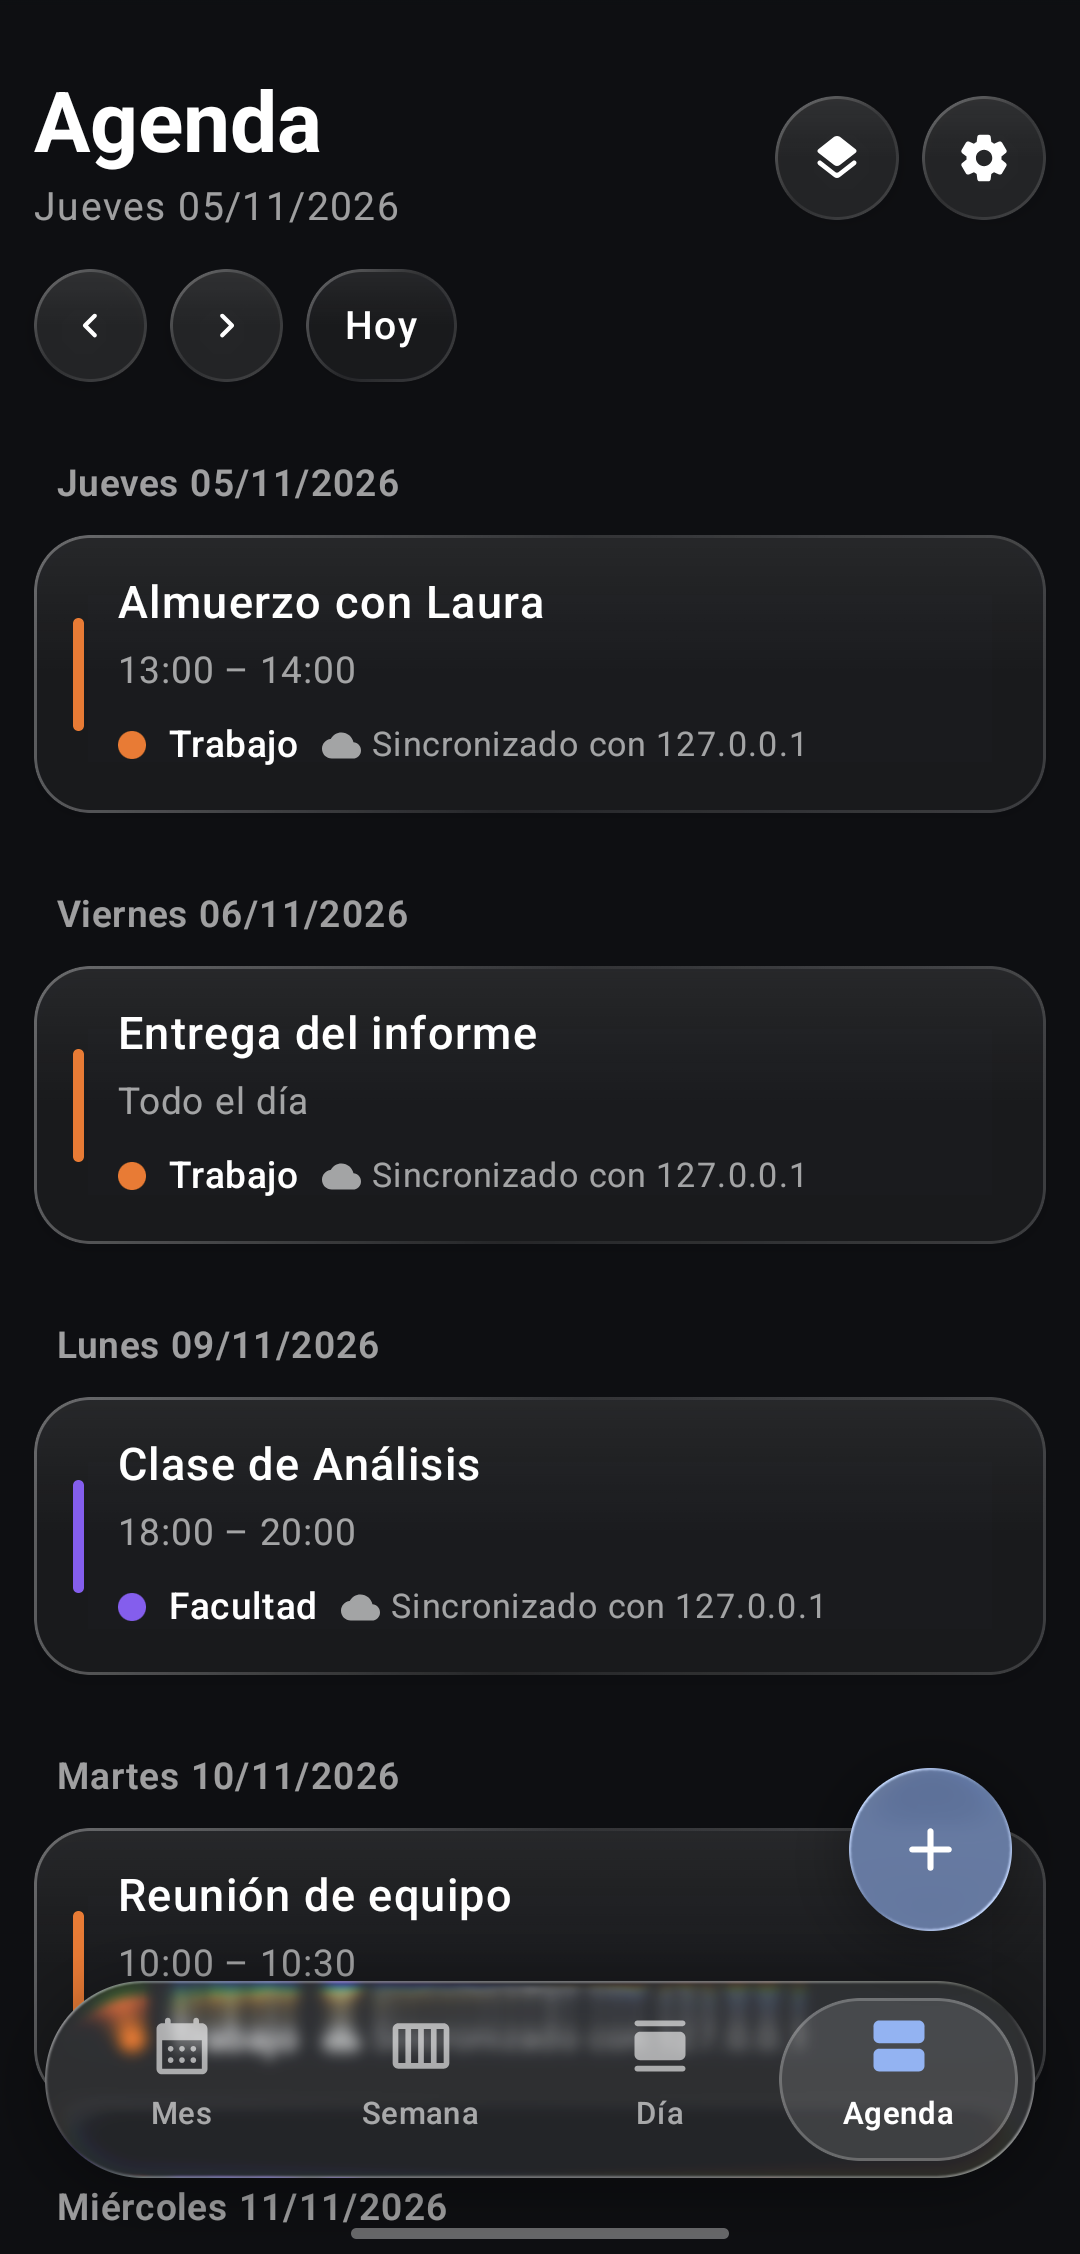
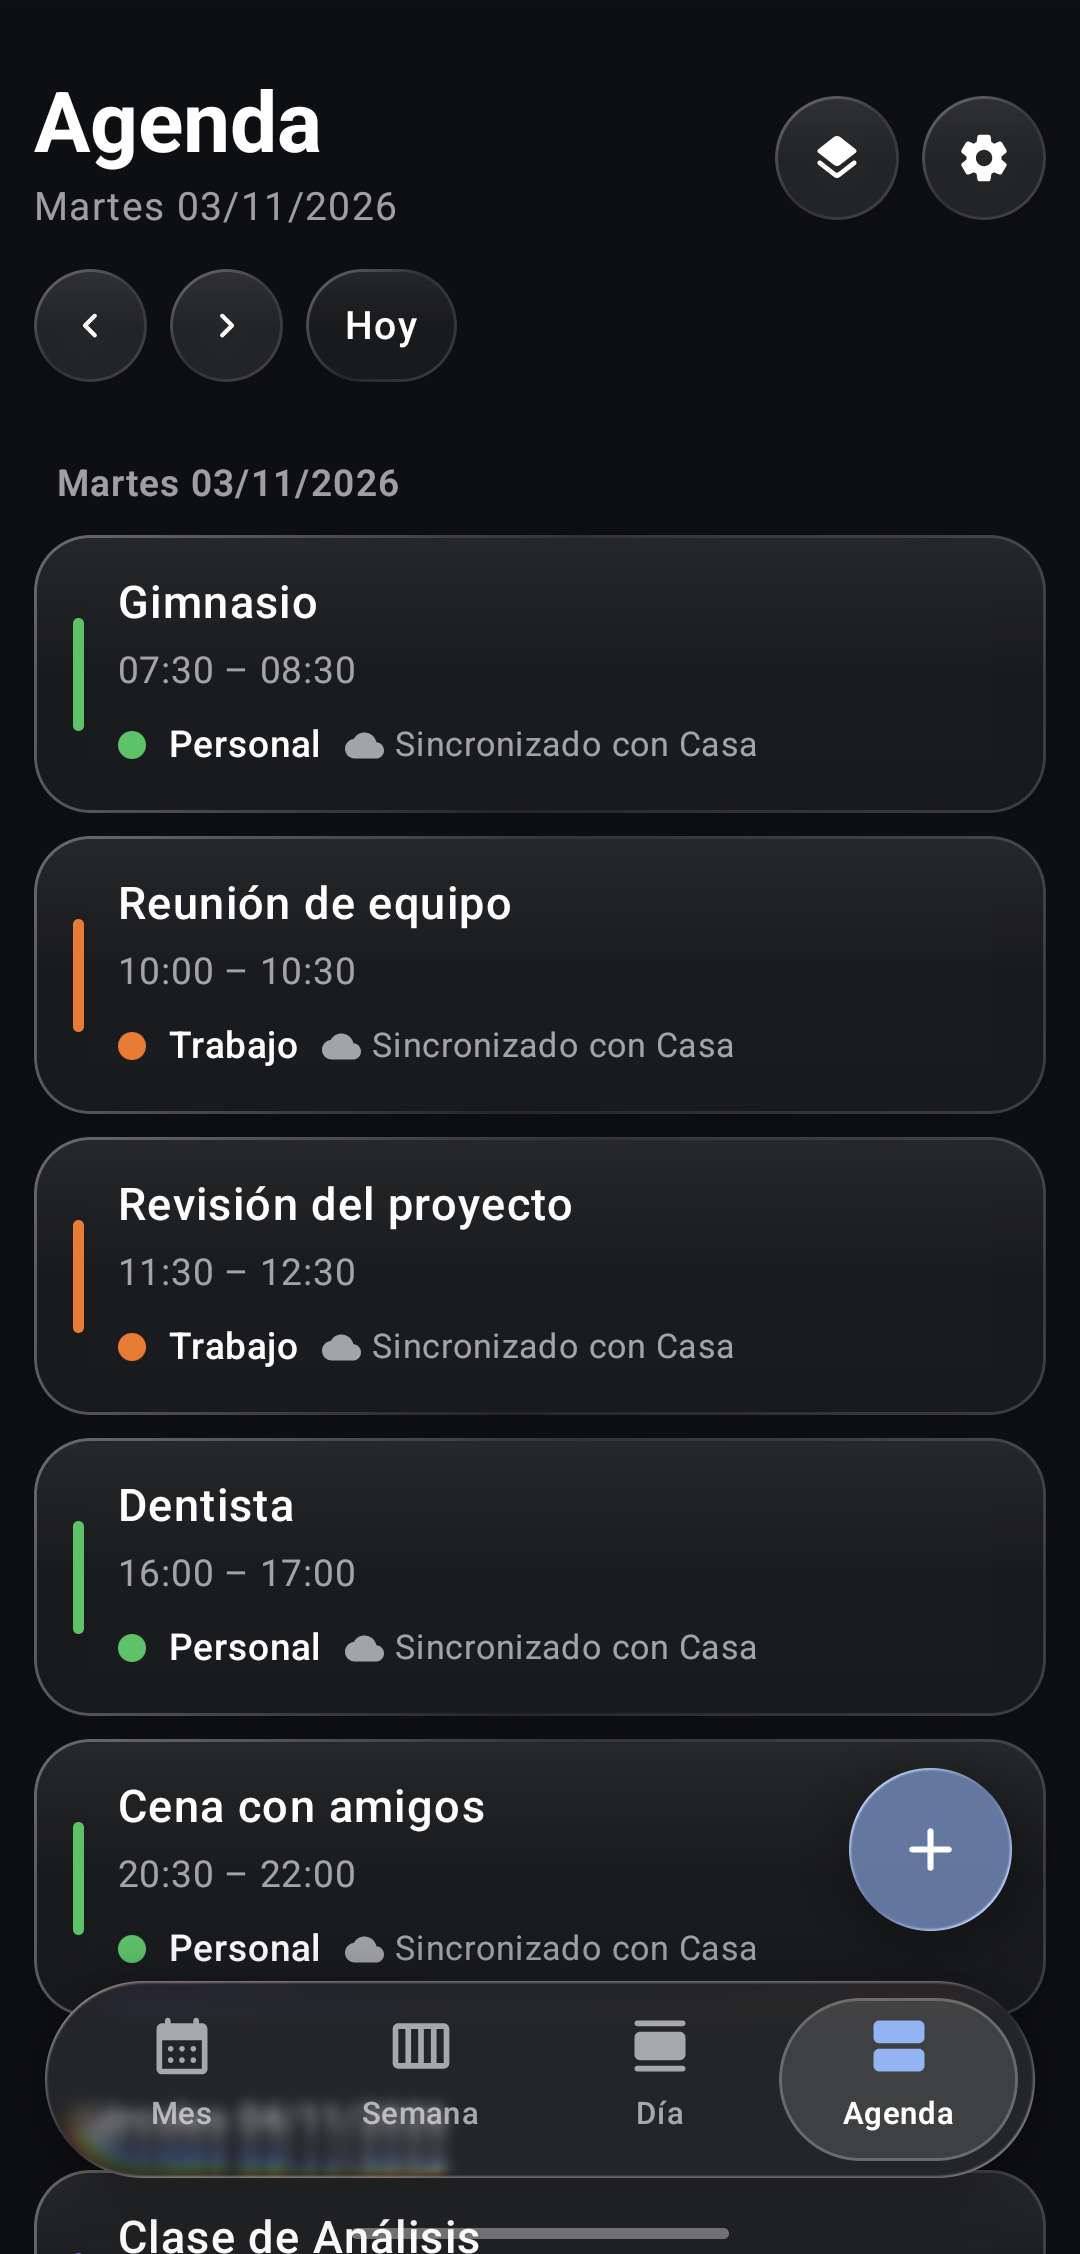
README: solo las pestañas, en Liquid Glass y Sólido; datos de prueba con un día más cargado

diff --git a/scripts/demo-data.py b/scripts/demo-data.py
@@ -86,3 +86,18 @@ event("trabajo", "almuerzo", [
     f"DTSTART;{local(monday + dt.timedelta(days=3), 13)}", f"DTEND;{local(monday + dt.timedelta(days=3), 14)}",
     "SUMMARY:Almuerzo con Laura", "LOCATION:Café del centro", "END:VEVENT",
 ])
+
+# Un día cargado (martes) y un calendario más, para las capturas de las pestañas.
+calendar("personal", "Personal", "#22C55EFF")
+tuesday = monday + dt.timedelta(days=1)
+for slug, uid, day, start, end, title in (
+    ("personal", "gimnasio", tuesday, (7, 30), (8, 30), "Gimnasio"),
+    ("trabajo", "revision", tuesday, (11, 30), (12, 30), "Revisión del proyecto"),
+    ("personal", "dentista", tuesday, (16, 0), (17, 0), "Dentista"),
+    ("personal", "cena", tuesday, (20, 30), (22, 0), "Cena con amigos"),
+    ("personal", "cumple", monday + dt.timedelta(days=5), (19, 0), (21, 0), "Cumpleaños de Sofi"),
+):
+    event(slug, uid, [
+        "BEGIN:VEVENT", f"UID:{uid}@datos-de-prueba", stamp,
+        f"DTSTART;{local(day, *start)}", f"DTEND;{local(day, *end)}", f"SUMMARY:{title}", "END:VEVENT",
+    ])

diff --git a/README.es.md b/README.es.md
@@ -15,23 +15,19 @@ tarjetas opacas, esquinas chicas e íconos de líneas.
 Sin publicidad, sin telemetría y sin servicios de Google. Solo se conecta a tu servidor y a las
 suscripciones que agregues vos. Licencia GPL-3.0.
 
+<p align="center"><b>Liquid Glass</b></p>
 <p align="center">
   <img src="docs/screenshots/mes.png" width="200" alt="Mes">
   <img src="docs/screenshots/semana.png" width="200" alt="Semana">
+  <img src="docs/screenshots/dia.png" width="200" alt="Día">
   <img src="docs/screenshots/agenda.png" width="200" alt="Agenda">
-  <img src="docs/screenshots/detalle-serie.png" width="200" alt="Detalle de una serie">
 </p>
+<p align="center"><b>Sólido</b></p>
 <p align="center">
-  <img src="docs/screenshots/resumen-serie.png" width="200" alt="Resumen antes de cambiar una serie">
-  <img src="docs/screenshots/calendarios.png" width="200" alt="Calendarios">
-  <img src="docs/screenshots/ajustes-recordatorios.png" width="200" alt="Ajustes de recordatorios">
-  <img src="docs/screenshots/calendario-faltante.png" width="200" alt="Calendario borrado en el servidor">
-</p>
-<p align="center">
-  <img src="docs/screenshots/borrar-calendario.png" width="200" alt="Borrar un calendario">
-  <img src="docs/screenshots/suscripcion.png" width="200" alt="Suscripción">
-  <img src="docs/screenshots/importar.png" width="200" alt="Importar">
-  <img src="docs/screenshots/widget.png" width="200" alt="Widget de agenda">
+  <img src="docs/screenshots/mes-solido.png" width="200" alt="Mes">
+  <img src="docs/screenshots/semana-solido.png" width="200" alt="Semana">
+  <img src="docs/screenshots/dia-solido.png" width="200" alt="Día">
+  <img src="docs/screenshots/agenda-solido.png" width="200" alt="Agenda">
 </p>
 
 Las capturas son de datos de prueba inventados (`scripts/demo-data.py`) en un Radicale local.

diff --git a/README.md b/README.md
@@ -15,23 +15,19 @@ small corners and outline icons.
 No ads, no telemetry and no Google services. It only talks to your server and to the
 subscriptions you add yourself. Licensed under GPL-3.0.
 
+<p align="center"><b>Liquid Glass</b></p>
 <p align="center">
   <img src="docs/screenshots/mes.png" width="200" alt="Month">
   <img src="docs/screenshots/semana.png" width="200" alt="Week">
+  <img src="docs/screenshots/dia.png" width="200" alt="Day">
   <img src="docs/screenshots/agenda.png" width="200" alt="Agenda">
-  <img src="docs/screenshots/detalle-serie.png" width="200" alt="Event in a series">
 </p>
+<p align="center"><b>Solid</b></p>
 <p align="center">
-  <img src="docs/screenshots/resumen-serie.png" width="200" alt="Summary before changing a series">
-  <img src="docs/screenshots/calendarios.png" width="200" alt="Calendars">
-  <img src="docs/screenshots/ajustes-recordatorios.png" width="200" alt="Reminder settings">
-  <img src="docs/screenshots/calendario-faltante.png" width="200" alt="Calendar deleted on the server">
-</p>
-<p align="center">
-  <img src="docs/screenshots/borrar-calendario.png" width="200" alt="Deleting a calendar">
-  <img src="docs/screenshots/suscripcion.png" width="200" alt="Subscription">
-  <img src="docs/screenshots/importar.png" width="200" alt="Import">
-  <img src="docs/screenshots/widget.png" width="200" alt="Agenda widget">
+  <img src="docs/screenshots/mes-solido.png" width="200" alt="Month">
+  <img src="docs/screenshots/semana-solido.png" width="200" alt="Week">
+  <img src="docs/screenshots/dia-solido.png" width="200" alt="Day">
+  <img src="docs/screenshots/agenda-solido.png" width="200" alt="Agenda">
 </p>
 
 Screenshots show made-up test data (`scripts/demo-data.py`) on a local Radicale.
